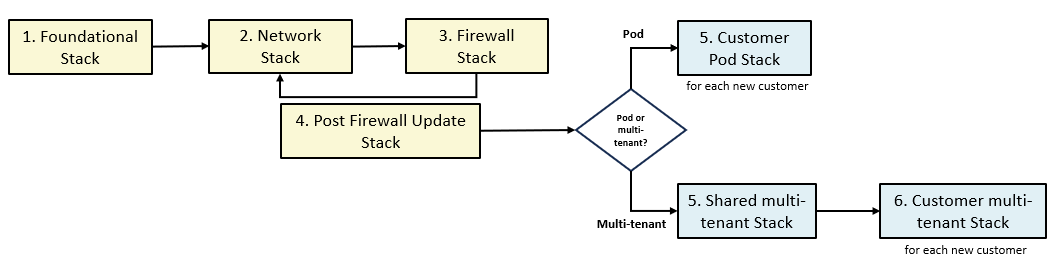
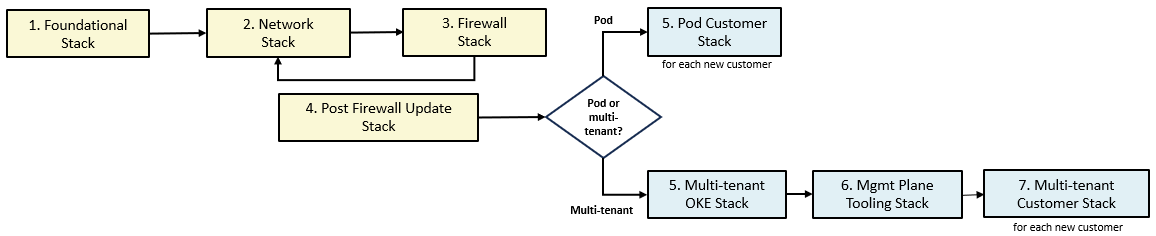
feat: doc updates

Changed region(s): [[0.0, 0.0297, 0.7894, 0.6822], [0.4858, 0.6822, 1.0, 0.9788]]

diff --git a/blueprints/multi-oe/service-providers/runtime/readme.md b/blueprints/multi-oe/service-providers/runtime/readme.md
@@ -116,7 +116,7 @@ Onboarding customers in the Multi-Tenant model requires shared infrastructure as
 6. [Mgmt Plane Tooling Stack](docs/MPLANE-TOOLING.md)
 7. [Multi-Tenant Customer Onboarding Stack](docs/MT-CUSTOMER-ONBOARDING.md)
  
- The diagram below depicts the deployment sequencing. Note that the Network stack must be updated once after Firewall deployment (step 4). Also note that the customer stack (step 5 in Pod model and step 6 in multi-tenant model) must be executed for each new customer.
+ The diagram below depicts the deployment sequencing. Note that the Network stack must be updated once after Firewall deployment (step 4). Also note that the customer stack (step 5 in Pod model and step 7 in multi-tenant model) must be executed for each new customer.
 
  ![Deployment Sequencing](../design/images/deployment-sequencing.png)
 

diff --git a/blueprints/multi-oe/service-providers/runtime/docs/MPLANE-NETWORKING.md b/blueprints/multi-oe/service-providers/runtime/docs/MPLANE-NETWORKING.md
@@ -18,7 +18,7 @@ This stack is executed in two different stages with a **PROGRESSIVELY UPDATED in
 2. **Mgmt Plane Networking 1st stage - Mgmt Plane VCNs and DRG (this stack)**
 3. [Mgmt Plane Networking - Firewall](./MPLANE-FIREWALL.md)
 4. **Mgmt Plane Networking 2nd stage - Network routing post firewall deployment (this stack)**
-5. Either [Pod Model - Customer Onboarding](./POD-CUSTOMER-ONBOARDING.md) or [Multi-Tenant Shared](./MT-SHARED-OKE.md)/[Multi-Tenant Model - Customer Onboarding](./MT-CUSTOMER-ONBOARDING.md)
+5. Either [Pod Model - Customer Onboarding](./POD-CUSTOMER-ONBOARDING.md) or [Multi-Tenant Shared](./MT-SHARED-OKE.md)/[Mgmt Plane Tooling](./MPLANE-TOOLING.md)/[Multi-Tenant Model - Customer Onboarding](./MT-CUSTOMER-ONBOARDING.md)
 
 ### <a name="stage1">Network Stack 1st Stage</a> 
 

diff --git a/blueprints/multi-oe/service-providers/runtime/docs/MPLANE-FOUNDATIONAL.md b/blueprints/multi-oe/service-providers/runtime/docs/MPLANE-FOUNDATIONAL.md
@@ -8,7 +8,7 @@ It assembles IAM, governance, security and observability configuration files in 
 2. [Mgmt Plane Networking 1st stage - Mgmt Plane VCNs](./MPLANE-NETWORKING.md#stage1)
 3. [Mgmt Plane Networking - Firewall](./MPLANE-FIREWALL.md)
 4. [Mgmt Plane Networking 2nd stage - Network routing post firewall deployment](./MPLANE-NETWORKING.md#stage2)
-5. Either [Pod Model - Customer Onboarding](./POD-CUSTOMER-ONBOARDING.md) or [Multi-Tenant Shared](./MT-SHARED-OKE.md)/[Multi-Tenant Model - Customer Onboarding](./MT-CUSTOMER-ONBOARDING.md).
+5. Either [Pod Model - Customer Onboarding](./POD-CUSTOMER-ONBOARDING.md) or [Multi-Tenant Shared](./MT-SHARED-OKE.md)/[Mgmt Plane Tooling](./MPLANE-TOOLING.md)/[Multi-Tenant Model - Customer Onboarding](./MT-CUSTOMER-ONBOARDING.md).
 
 ### Stack Configuration
 

diff --git a/blueprints/multi-oe/service-providers/runtime/docs/MPLANE-FIREWALL.md b/blueprints/multi-oe/service-providers/runtime/docs/MPLANE-FIREWALL.md
@@ -10,7 +10,7 @@ The marketplace image deployed is the latest available version of "Palo Alto Net
 2. [Mgmt Plane Networking 1st stage - Mgmt Plane VCNs](./MPLANE-NETWORKING.md#stage1)
 3. **Mgmt Plane Networking - Firewall (this stack)**
 4. [Mgmt Plane Networking 2nd stage - Network routing post firewall deployment](./MPLANE-NETWORKING.md#stage2)
-5. Either [Pod Model - Customer Onboarding](./POD-CUSTOMER-ONBOARDING.md) or [Multi-Tenant Shared](./MT-SHARED-OKE.md)/[Multi-Tenant Model - Customer Onboarding](./MT-CUSTOMER-ONBOARDING.md).
+5. Either [Pod Model - Customer Onboarding](./POD-CUSTOMER-ONBOARDING.md) or [Multi-Tenant Shared](./MT-SHARED-OKE.md)/[Mgmt Plane Tooling](./MPLANE-TOOLING.md)/[Multi-Tenant Model - Customer Onboarding](./MT-CUSTOMER-ONBOARDING.md).
 
 ### Stack Configuration
 

diff --git a/blueprints/multi-oe/service-providers/runtime/docs/MPLANE-TOOLING.md b/blueprints/multi-oe/service-providers/runtime/docs/MPLANE-TOOLING.md
@@ -1,4 +1,4 @@
-## Management Plane Network Stack Deployment
+## Management Plane Tooling Stack Deployment
 
 A stack that deploys necessary tooling for managing the application resources serving customers. It deploys a Compute instance using "Oracle-Linux-Cloud-Developer-8.10-2025.01.31-0" image. As part of deployment, it attempts to install OCI CLI, kubectl and Ansible in it via cloud-init. Additionally, it downloads pre-configured Kubernetes manifests and Ansible playbooks for deploying Calico policy, setting up RBAC policy and onboarding customers.
 
